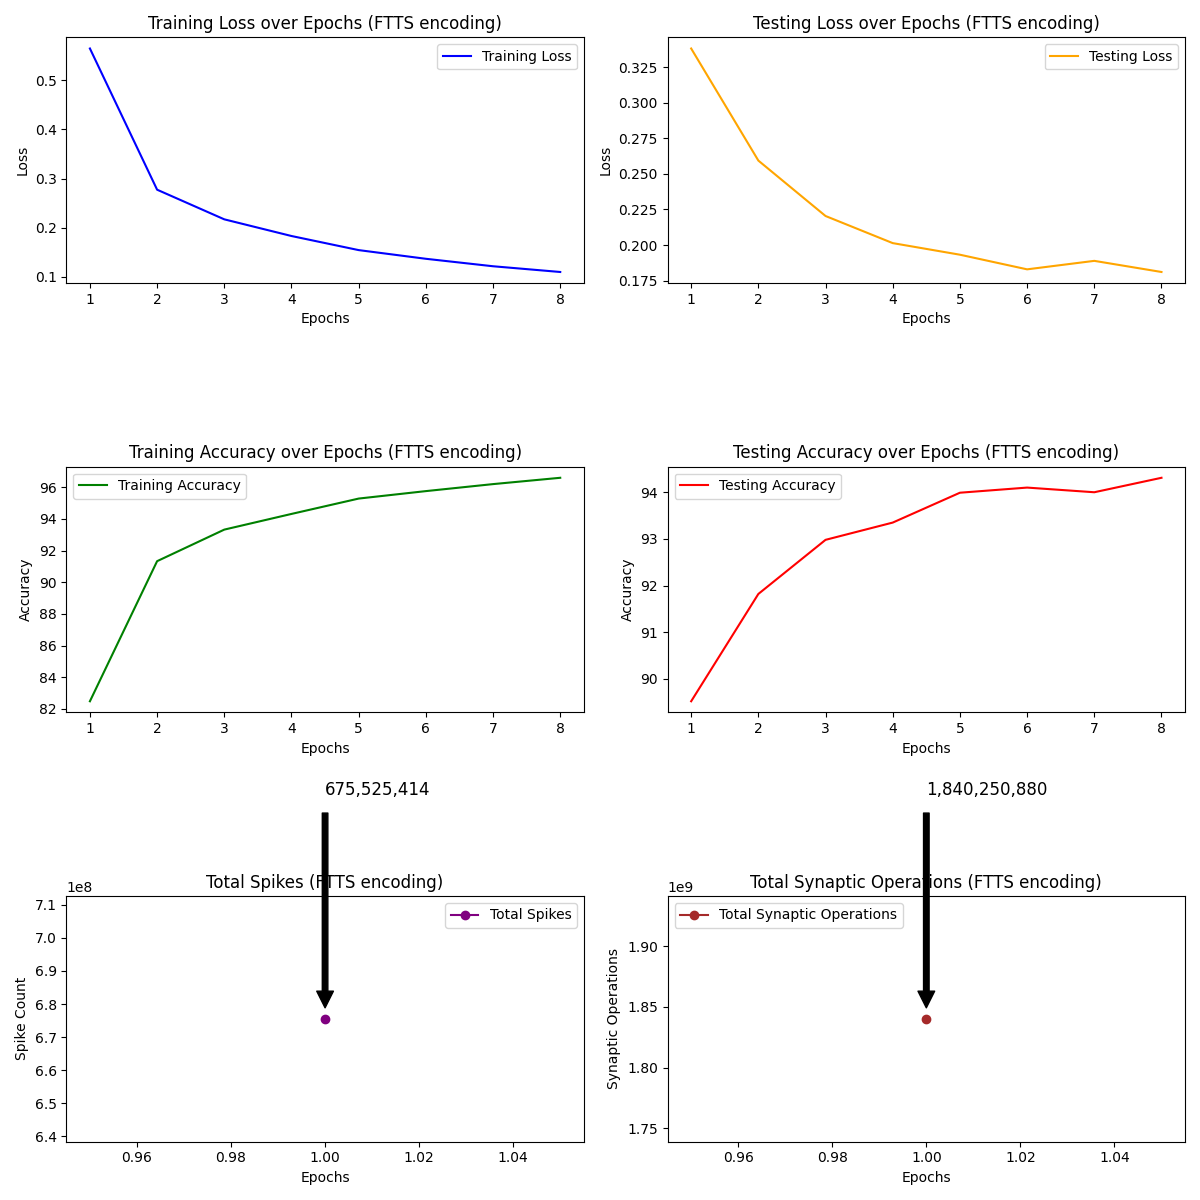
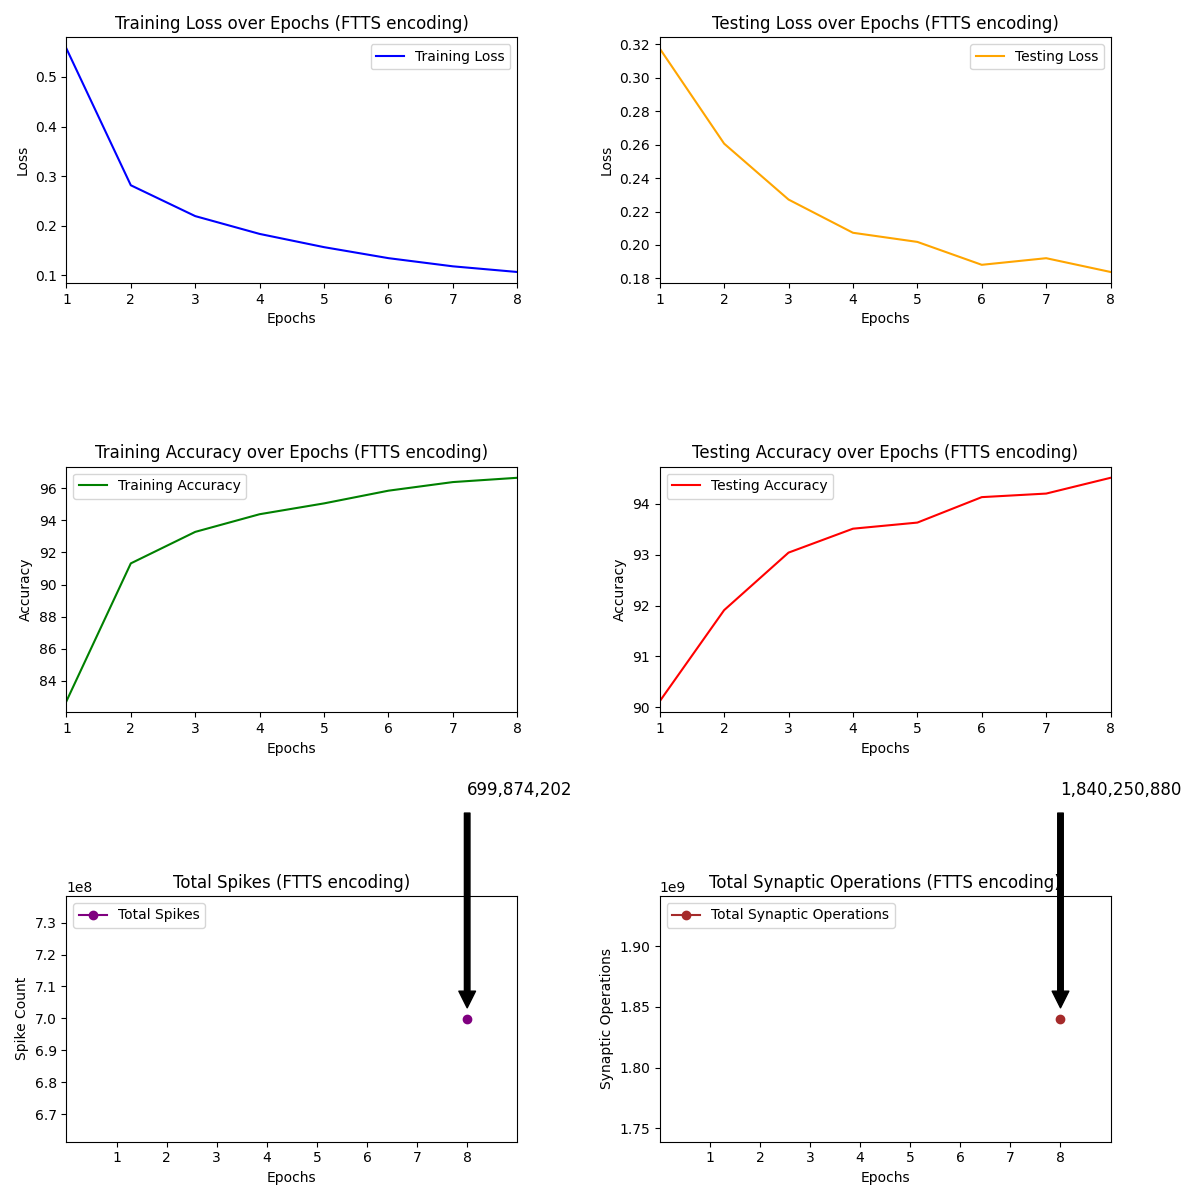
changed the plot results function

diff --git a/Visualisation/plot_results.py b/Visualisation/plot_results.py
@@ -25,66 +25,78 @@ def plot_results(results, encoding,filename="training_results.png"):
     test_accuracies = results['test_accuracies']
     total_spikes = results['total_spikes']
     total_synaptic_operations = results['total_synaptic_operations']
-    
-    #subplot for train losses
+
+    #subplots for train_losses
     plt.subplot(3, 2, 1)
     plt.plot(range(1, len(train_losses) + 1), train_losses, label='Training Loss', color='blue')
     plt.xlabel('Epochs')
     plt.ylabel('Loss')
     plt.legend()
     plt.title(f'Training Loss over Epochs ({encoding} encoding)')
-    
-     #subplot for test losses
+    plt.xlim(1, len(train_losses))
+    plt.xticks(range(1, len(train_losses) + 1))
+
+     #subplots for test_losses
     plt.subplot(3, 2, 2)
     plt.plot(range(1, len(test_losses) + 1), test_losses, label='Testing Loss', color='orange')
     plt.xlabel('Epochs')
     plt.ylabel('Loss')
     plt.legend()
     plt.title(f'Testing Loss over Epochs ({encoding} encoding)')
+    plt.xlim(1, len(test_losses))
+    plt.xticks(range(1, len(test_losses) + 1))
 
-     #subplot for train accuracies
+    #subplots for train_accuracies
     plt.subplot(3, 2, 3)
     plt.plot(range(1, len(train_accuracies) + 1), train_accuracies, label='Training Accuracy', color='green')
     plt.xlabel('Epochs')
     plt.ylabel('Accuracy')
     plt.legend()
     plt.title(f'Training Accuracy over Epochs ({encoding} encoding)')
+    plt.xlim(1, len(train_accuracies))
+    plt.xticks(range(1, len(train_accuracies) + 1))
 
-     #subplot for test accuracies
+     #subplots for test_losses
     plt.subplot(3, 2, 4)
     plt.plot(range(1, len(test_accuracies) + 1), test_accuracies, label='Testing Accuracy', color='red')
     plt.xlabel('Epochs')
     plt.ylabel('Accuracy')
     plt.legend()
     plt.title(f'Testing Accuracy over Epochs ({encoding} encoding)')
+    plt.xlim(1, len(test_accuracies))
+    plt.xticks(range(1, len(test_accuracies) + 1))
 
-    #subplot for total spike count
+     #subplots for spike count
     plt.subplot(3, 2, 5)
-    plt.plot(range(1, 2), total_spikes, label='Total Spikes', color='purple', marker='o')
+    if total_spikes != 0:
+        plt.plot(len(train_losses), total_spikes, label='Total Spikes', color='purple', marker='o')
+        plt.annotate(f'{total_spikes:,.0f}',
+                     xy=(len(train_losses), total_spikes),
+                     xytext=(len(train_losses), total_spikes * 1.1),
+                     arrowprops=dict(facecolor='black', shrink=0.05),
+                     fontsize=12)
     plt.xlabel('Epochs')
     plt.ylabel('Spike Count')
     plt.legend()
     plt.title(f'Total Spikes ({encoding} encoding)')
-    #annotate with the number
-    plt.annotate(f'{total_spikes[-1]:,.0f}', 
-                 xy=(1, total_spikes[-1]), 
-                 xytext=(1, total_spikes[-1] * 1.1),
-                 arrowprops=dict(facecolor='black', shrink=0.05),
-                 fontsize=12)
-    
-    #subplot for total synaptic operations
+    plt.xlim(0, len(train_losses) + 1)
+    plt.xticks(range(1, len(train_losses) + 1))
+
+     #subplots for synaptic operations
     plt.subplot(3, 2, 6)
-    plt.plot(range(1, 2), total_synaptic_operations, label='Total Synaptic Operations', color='brown', marker='o')
+    if total_synaptic_operations != 0:
+        plt.plot(len(train_losses), total_synaptic_operations, label='Total Synaptic Operations', color='brown', marker='o')
+        plt.annotate(f'{total_synaptic_operations:,.0f}',
+                     xy=(len(train_losses), total_synaptic_operations),
+                     xytext=(len(train_losses), total_synaptic_operations * 1.1),
+                     arrowprops=dict(facecolor='black', shrink=0.05),
+                     fontsize=12)
     plt.xlabel('Epochs')
     plt.ylabel('Synaptic Operations')
     plt.legend()
     plt.title(f'Total Synaptic Operations ({encoding} encoding)')
-
-    plt.annotate(f'{total_synaptic_operations[-1]:,.0f}', 
-                 xy=(1, total_synaptic_operations[-1]), 
-                 xytext=(1, total_synaptic_operations[-1] * 1.1),
-                 arrowprops=dict(facecolor='black', shrink=0.05),
-                 fontsize=12)
+    plt.xlim(0, len(train_losses) + 1)
+    plt.xticks(range(1, len(train_losses) + 1))
 
     plt.tight_layout()
     plt.savefig(os.path.join(plots_dir, filename))

diff --git a/scripts/train_eval_utils.py b/scripts/train_eval_utils.py
@@ -107,8 +107,8 @@ def train_and_evaluate(model, device, train_loader, test_loader, optimizer, num_
         'train_accuracies': train_accuracies,
         'test_losses': test_losses,
         'test_accuracies': test_accuracies,
-        'total_spikes': [total_spikes],
-        'total_synaptic_operations': [total_synaptic_operations]
+        'total_spikes': total_spikes,
+        'total_synaptic_operations': total_synaptic_operations
     }
 
     return results
